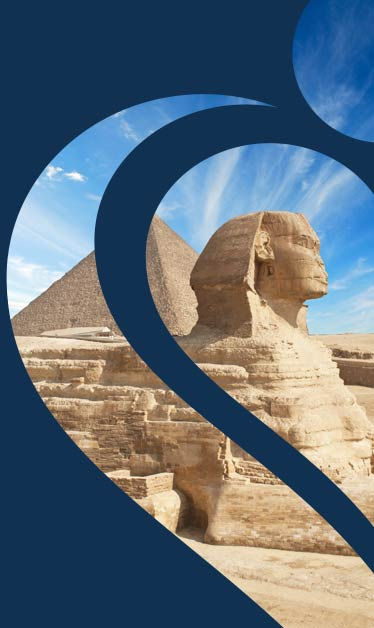
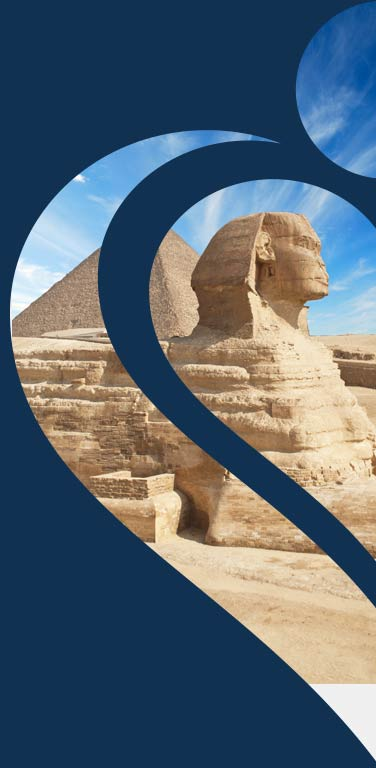
Commit v1.3 pages

diff --git a/pages/blepharoplastie.vue b/pages/blepharoplastie.vue
@@ -1,0 +1,93 @@
+<template>
+    <div class="__pages">
+        <div class="top__title abdo">
+            <div class="containerXD">
+                <div class="row">
+                    <div class="col-lg-5 col-md-5 col-12 display-flex">
+                        <div class="width-60 text-center">
+                            <h1>Blépharoplastie Egypte</h1>
+                            <div class="btn_devis mt-4"><NuxtLink to="/devis">Devis express</NuxtLink></div>
+                        </div>
+                    </div>
+                </div>
+            </div>
+        </div>
+        <section class="container">
+            <div class="row">
+                <div class="col-md-5 col-12"><img src="@/assets/img/img1-blepharoplastie.jpg" alt="Medespoir maroc"></div>
+                <div class="col-md-7 col-12 flex-item">
+                    <p class="color-blue text-center">La blépharoplastie, également appelée chirurgie des paupières, est une intervention de chirurgie esthétique destinée à rajeunir le contour des yeux du visage. Elle implique souvent l'élimination de l'excès de graisse et de peau des paupières supérieures et inférieures. La chirurgie peut aider à corriger les signes de vieillissement et le regard fatigué des paupières supérieures tombantes et des poches gonflées sous les yeux.<br>Elle est souvent associée à d'autres interventions esthétiques, telles que le lifting du visage ou le lipofilling visage pour améliorer chirurgicalement l'apparence du visage.</p>
+                    <h2 class="yellow">Prix blépharoplastie Egypte</h2>
+                    <p>Pour une chirurgie paupières prix pas cher, notre clinique esthétique Egypte vous propose une blépharoplastie prix tout compris. Toutes les dépenses liées à votre séjour esthétique en Egypte seront couvertes (clinique, hôtel, transport, soins médicaux…).<br>Veuillez demander un devis en ligne pour en savoir plus sur la blépharoplastie tarif réduit.</p>
+                </div>
+            </div>
+        </section>
+        <section class="devis_express mt-5 pt-5 pb-5">
+            <div class="container">
+                <h2 class="yellow mb-3 text-center">Devis Express en ligne</h2>
+                <iframe frameborder="0" src="https://forms.zohopublic.com/highlight/form/MedespoircomExpress/formperma/kTOAYYPldfLDE4I67OaiiMq9xcRQzDPZLGGgnsSlQ8k" style="height:420px;width:100%;border:none"></iframe>
+            </div>
+        </section>
+        <section class="container mb-5">
+            <div class="row">
+                <div class="col-md-7 col-12">
+                    <h2 class="text-left yellow mt-5">Comment se préparer à l’opération des paupières Egypte?</h2>
+                    <p class="text-left color-blue">La blépharoplastie est une intervention personnalisée qui nécessite une visite préopératoire approfondie. Lors de la première visite, le chirurgien doit évaluer la structure osseuse et musculaire du visage, la qualité de la peau et des muscles périoculaires et la présence d'éventuels défauts esthétiques et fonctionnels et illustrer les objectifs avec les résultats esthétiques pouvant être obtenus.<br>Il doit également évaluer l’état de santé de son patient pour écarter la présence d'altérations (hypertension artérielle, problèmes de coagulation ou de cicatrisation) qui pourraient affecter le résultat final de la chirurgie. A l'issue de la visite, le chirurgien, en accord avec le patient, choisit l'intervention chirurgicale la plus adaptée.</p>
+                    <h3 class="color-blue">Conseils préopératoires</h3>
+                    <ul class="liste-page color-blue">
+                        <li>Ne pas prendre les médicaments contenant de l’aspirine ou de la vitamine E deux semaines avant l’opération.</li>
+                        <li>Arrêter de fumer au moins une semaine avant la chirurgie.</li>
+                    </ul>
+                </div>
+                <div class="col-md-5 col-12"><img src="@/assets/img/img2-blepharoplastie.jpg" alt="Medespoir egypte"></div>
+            </div>
+        </section>
+        <section class="bg-blue pt-5 pb-5">
+            <div class="container">
+                <h2 class="yellow mb-4">Qui est le bon candidat pour la chirurgie esthétique des paupières?</h2>
+                <p>Les meilleurs candidats à la chirurgie des paupières sont les hommes et les femmes dont la peau a commencé à s'affaisser mais a conservé une bonne élasticité.<br>Ils doivent être également en bonne santé, psychologiquement stables et bien informés sur l’intervention chirurgicale et post-chirurgicale, exigences communes à toutes les interventions de chirurgie esthétique.<br>Généralement, les personnes de plus de 35 ans ont besoin d'une chirurgie paupières pour rajeunir leurs yeux tandis que les patients plus jeunes en ont souvent besoin pour corriger les facteurs génétiques.</p>
+                <h2 class="yellow mb-4">Quand envisager une chirurgie des paupières Egypte ? </h2>
+                <p>La peau autour des yeux est extrêmement fine et la paupière supérieure, au fil des ans, peut être tombante et peut présenter une ptose profonde ou une chute vers le bas, tandis que la paupière inférieure peut être entourée, en raison du vieillissement, d'une série de rides qu'elles seront circulaire autour de l'œil. Ces deux imperfections donnent au regard et au visage dans son ensemble un aspect ridé, fatigué et vieux. C'est là que le patient envisage une chirurgie esthétique des yeux.<br>Une ptose sévère des paupières peut réduire le champ de vision. Dans ce cas, il est conseillé subir une blépharoplastie supérieure non seulement pour des raisons esthétiques mais aussi pour des raisons fonctionnelles.</p>
+                <h2 class="yellow mb-4">Déroulement de l’intervention</h2>
+                <h3 class="color-white">Blépharoplastie supérieure</h3>
+                <p>Avec une opération des paupières supérieures, il est possible d'éliminer l'excès de peau et les sacs de graisse qui rendent le regard constamment fatigué et gonflé. Tout d'abord, il est essentiel que l'élimination de l'excès de tissu ne soit pas particulièrement extrême car, dans ce cas, le résultat final pourrait être artificiel et désagréable. En ce qui concerne la durée de l'opération, 15 à 20 minutes par œil suffisent.<br>Pour la correction des paupières supérieures, une incision est faite exactement dans le pli de la paupière pour éviter que des cicatrices ne soient visibles à l'avenir. Le chirurgien enlève alors une partie du tissu cutané, puis il ferme l’incision avec une suture et enfin il applique des pansements.</p>
+                <h3 class="color-white">Blépharoplastie inférieure</h3>
+                <p>La blépharoplastie inférieure est intervention esthétique, pratiquée sur les paupières inférieures, qui consiste à enlever ou repositionner les poches de graisse situées dans la région de la paupière inférieure. Pour se faire, le chirurgien pratique une incision dans la bordure sous-ciliaire à travers laquelle les trois poches graisseuses localisées dans cette zone et l'excès de peau et de muscles ont enlevés et remodelés.<br>Cette technique est plus complexe que la blépharoplastie supérieure et elle peut également être réalisée sous anesthésie locale ou sous anesthésie générale.</p>
+                <div class="btn_devis mt-4 text-center"><NuxtLink to="/devis">Devis express</NuxtLink></div>
+            </div>
+        </section>
+        <section class="container">
+            <div class="row">
+                <div class="col-md-5 col-12"><img src="@/assets/img/img3-blepharoplastie.jpg" alt="Medespoir maroc"></div>
+                <div class="col-md-7 col-12">
+                    <h2 class="yellow mt-5">Résultats de la blépharoplastie en Egypte</h2>
+                    <p class="color-blue">Le résultat de la blépharoplastie Egypte est généralement durable mais n’est pas permanent car il est toujours conditionné par le mode de vie et les effets inévitables de la gravité et du vieillissement.<br>Le résultat, appréciable déjà après les trois premières semaines, est définitif 6 mois après l’opération.</p>
+                    <h2 class="yellow mt-5">Pourquoi la vision est-elle floue après une blépharoplastie ?</h2>
+                    <p class="color-blue">La vision floue postopératoire est en grande partie due aux gouttes ophtalmiques lubrifiantes que le chirurgien recommande. Cette pommade ophtalmique est utilisée en postopératoire pour éviter un dessèchement excessif des yeux, et elle peut parfois provoquer une vision floue accidentelle. Le chirurgien recommande généralement d'utiliser cette pommade pendant environ 3 à 5 jours après la chirurgie.</p>
+                </div>
+            </div>
+        </section>
+    </div>
+</template>
+<script>
+    export default({
+    data() {
+      return {
+        title: 'Blépharoplastie Egypte'
+      }
+    },
+    head() {
+      return {
+        title: this.title,
+        meta: [
+            { charset: 'utf-8' },
+            { name: 'viewport', content: 'width=device-width, initial-scale=1' },
+            { hid: 'description', name: 'description', content: 'Medespoir Egypte Blépharoplastie Egypte' }
+        ],
+        htmlAttrs: {
+            lang: 'fr'
+        },
+      }
+    }
+})
+</script>

diff --git a/assets/css/style.scss b/assets/css/style.scss
@@ -825,7 +825,7 @@
                 .bg-blue {
                     @include min-tablet {
                         background: url(@/assets/img/bg-sdfisodifj.jpg)no-repeat right top #113151;
-                        background-size: contain
+                        //background-size: contain
                     }
                     @include max-tablet {
                         background: #113151;
